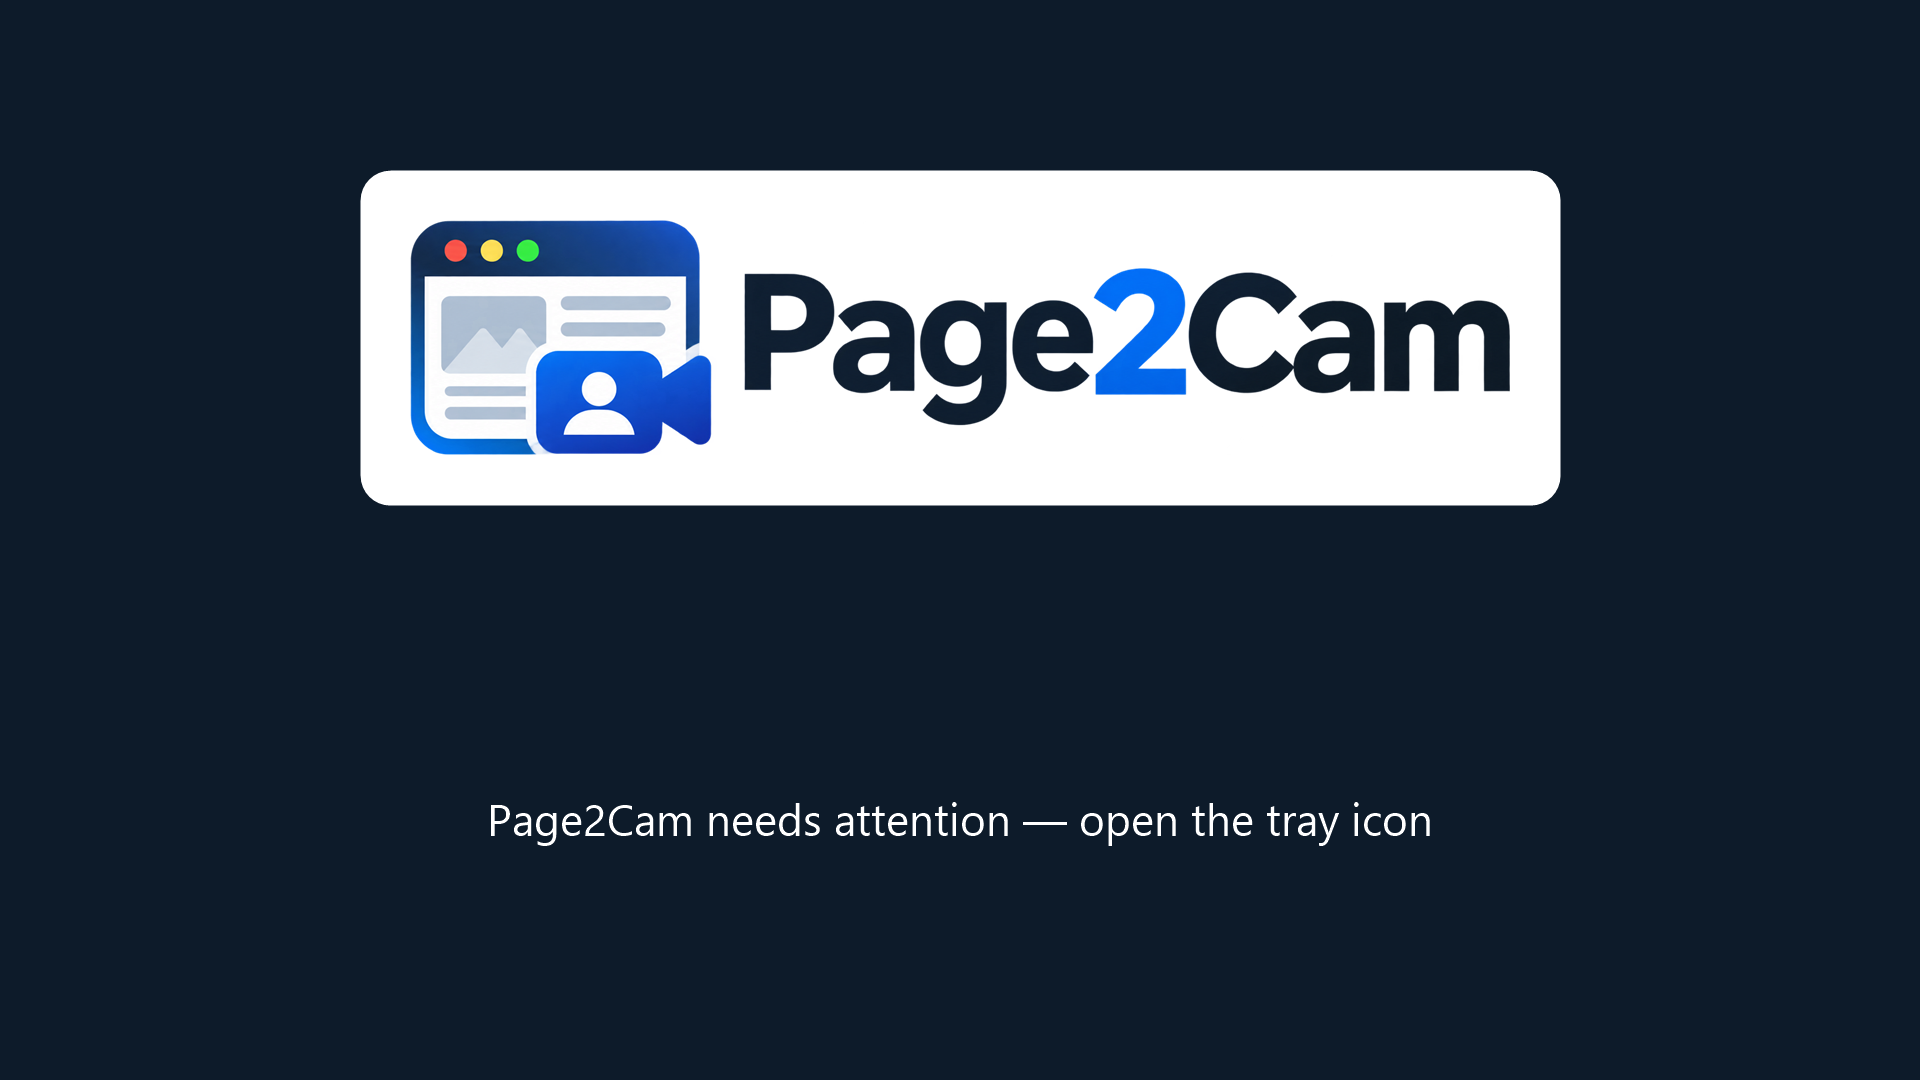
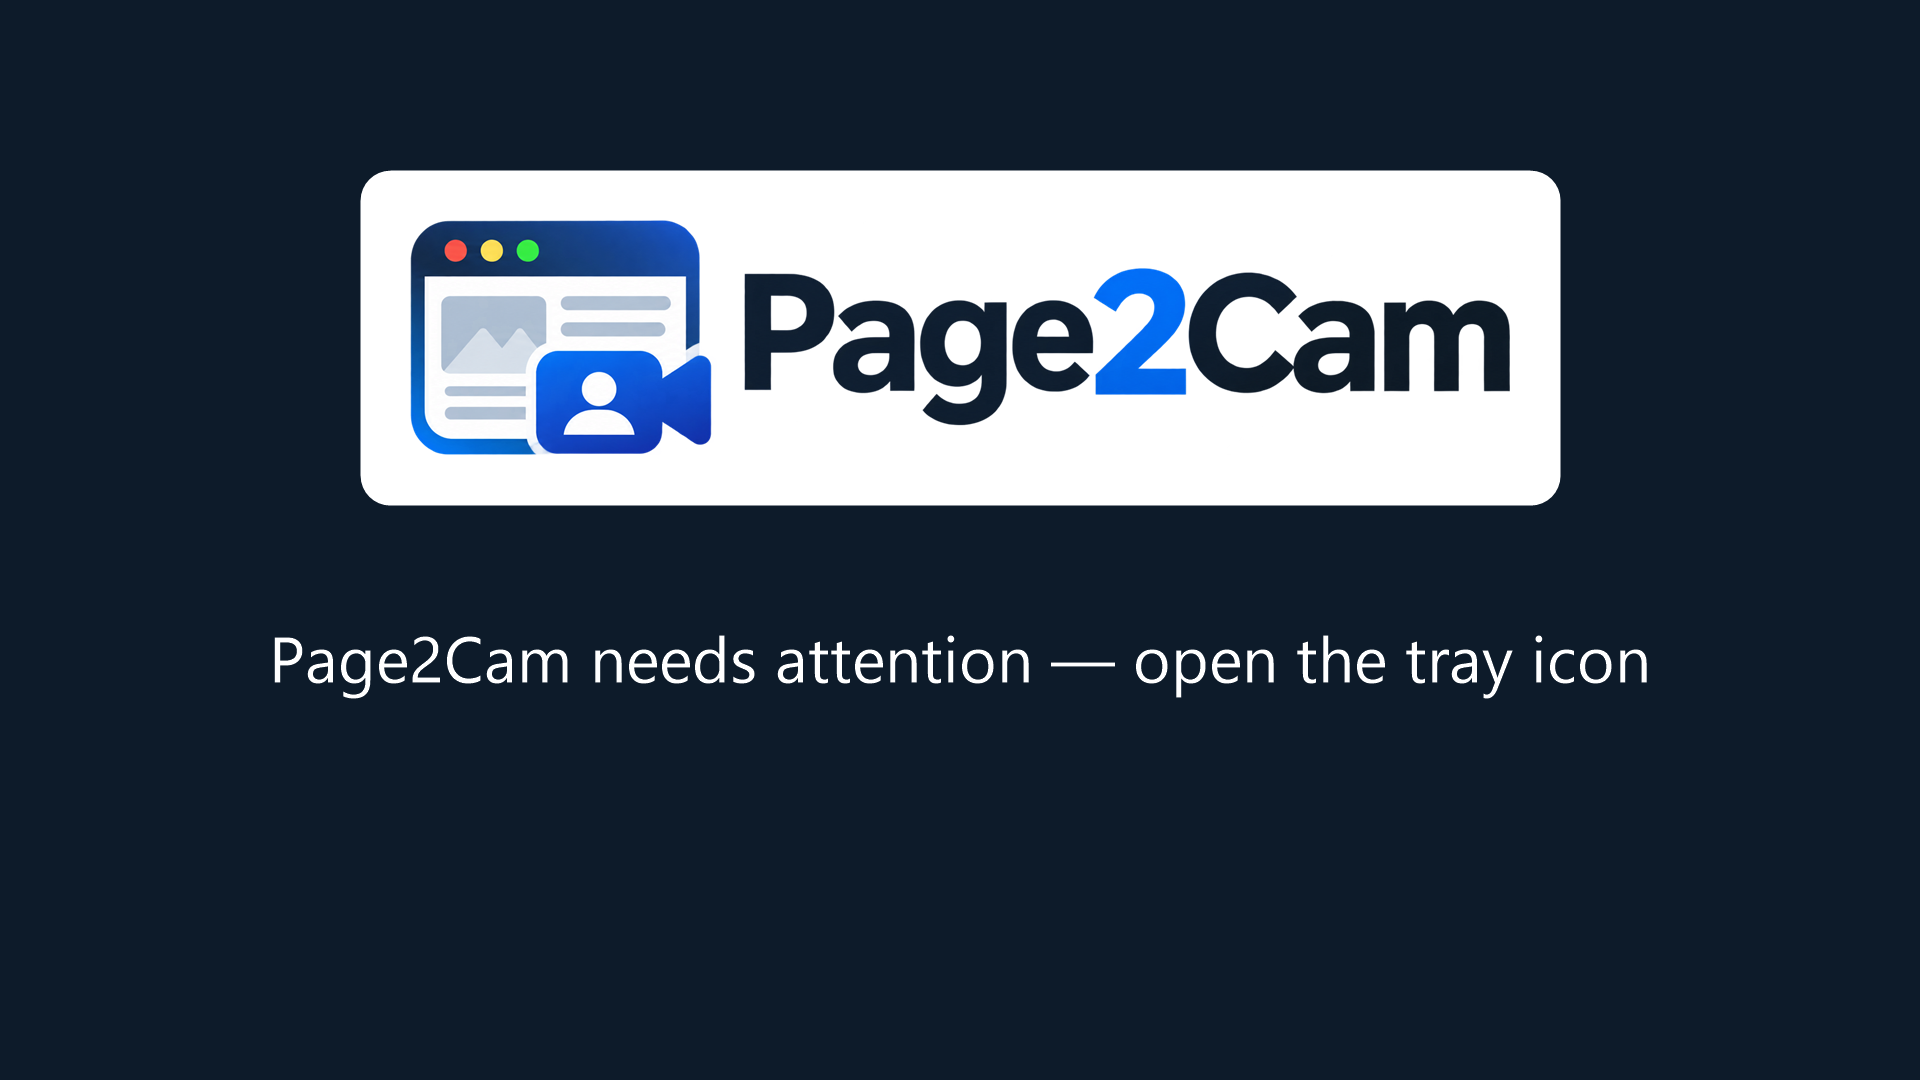
fix(tray): larger standby text, chroma test

Changed region(s): [[0.125, 0.5806, 0.875, 0.6417], [0.25, 0.7333, 0.5312, 0.7944], [0.5625, 0.7333, 0.75, 0.7944]]

diff --git a/crates/p2c-tray/src/standby.rs b/crates/p2c-tray/src/standby.rs
@@ -51,7 +51,10 @@ mod tests {
             let y = &f.data[..1920 * 1080];
             assert!(y.iter().all(|v| (16..=235).contains(v)));
             let mean = y.iter().map(|&v| v as u64).sum::<u64>() / y.len() as u64;
-            assert!(mean < 100, "mean luma {mean} should be dark");
+            assert!((40..100).contains(&mean), "mean luma {mean} should be dark");
+            // Navy corner: U > 128, V < 128 (catches an RGBA/BGRA swap).
+            let (u, v) = (f.data[1920 * 1080], f.data[1920 * 1080 + 1]);
+            assert!(u > 128 && v < 128, "navy chroma u={u} v={v}");
             assert!(
                 *y.iter().max().unwrap() > 200,
                 "expected bright text pixels"
